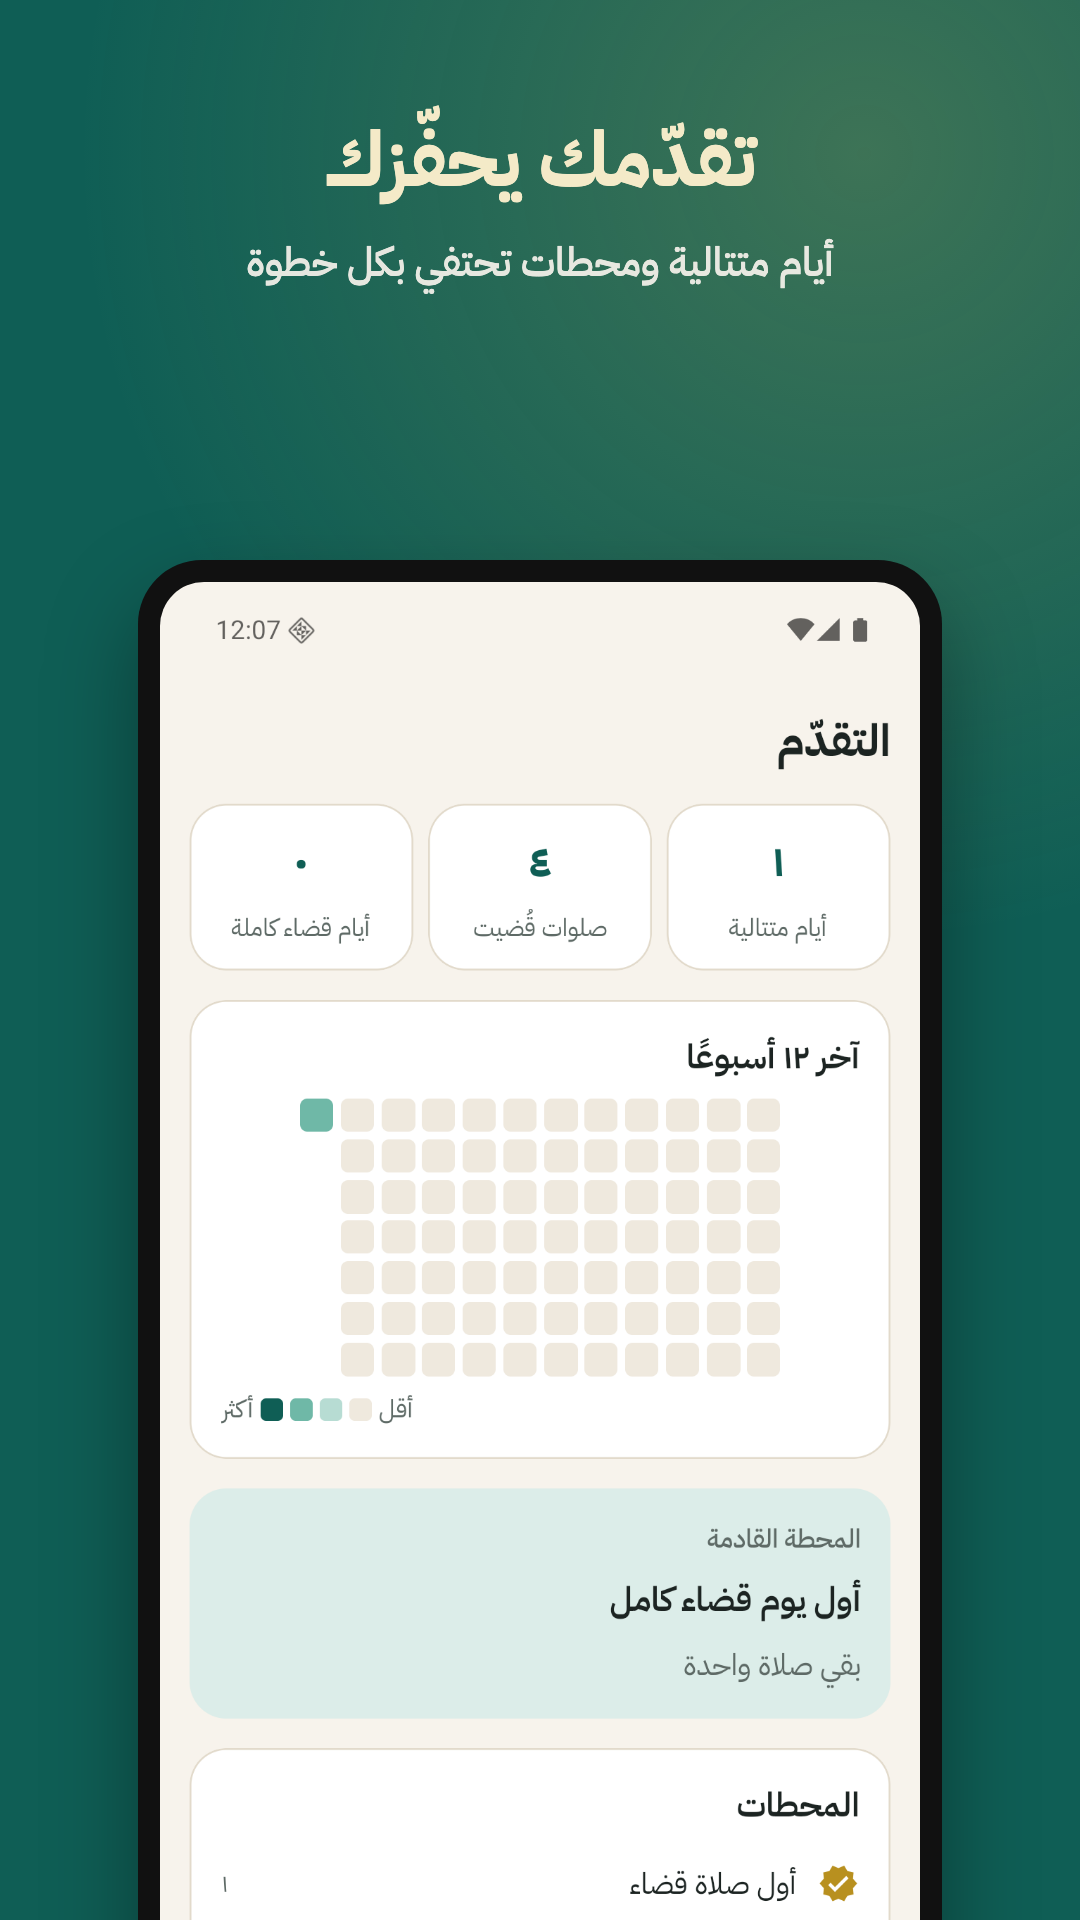
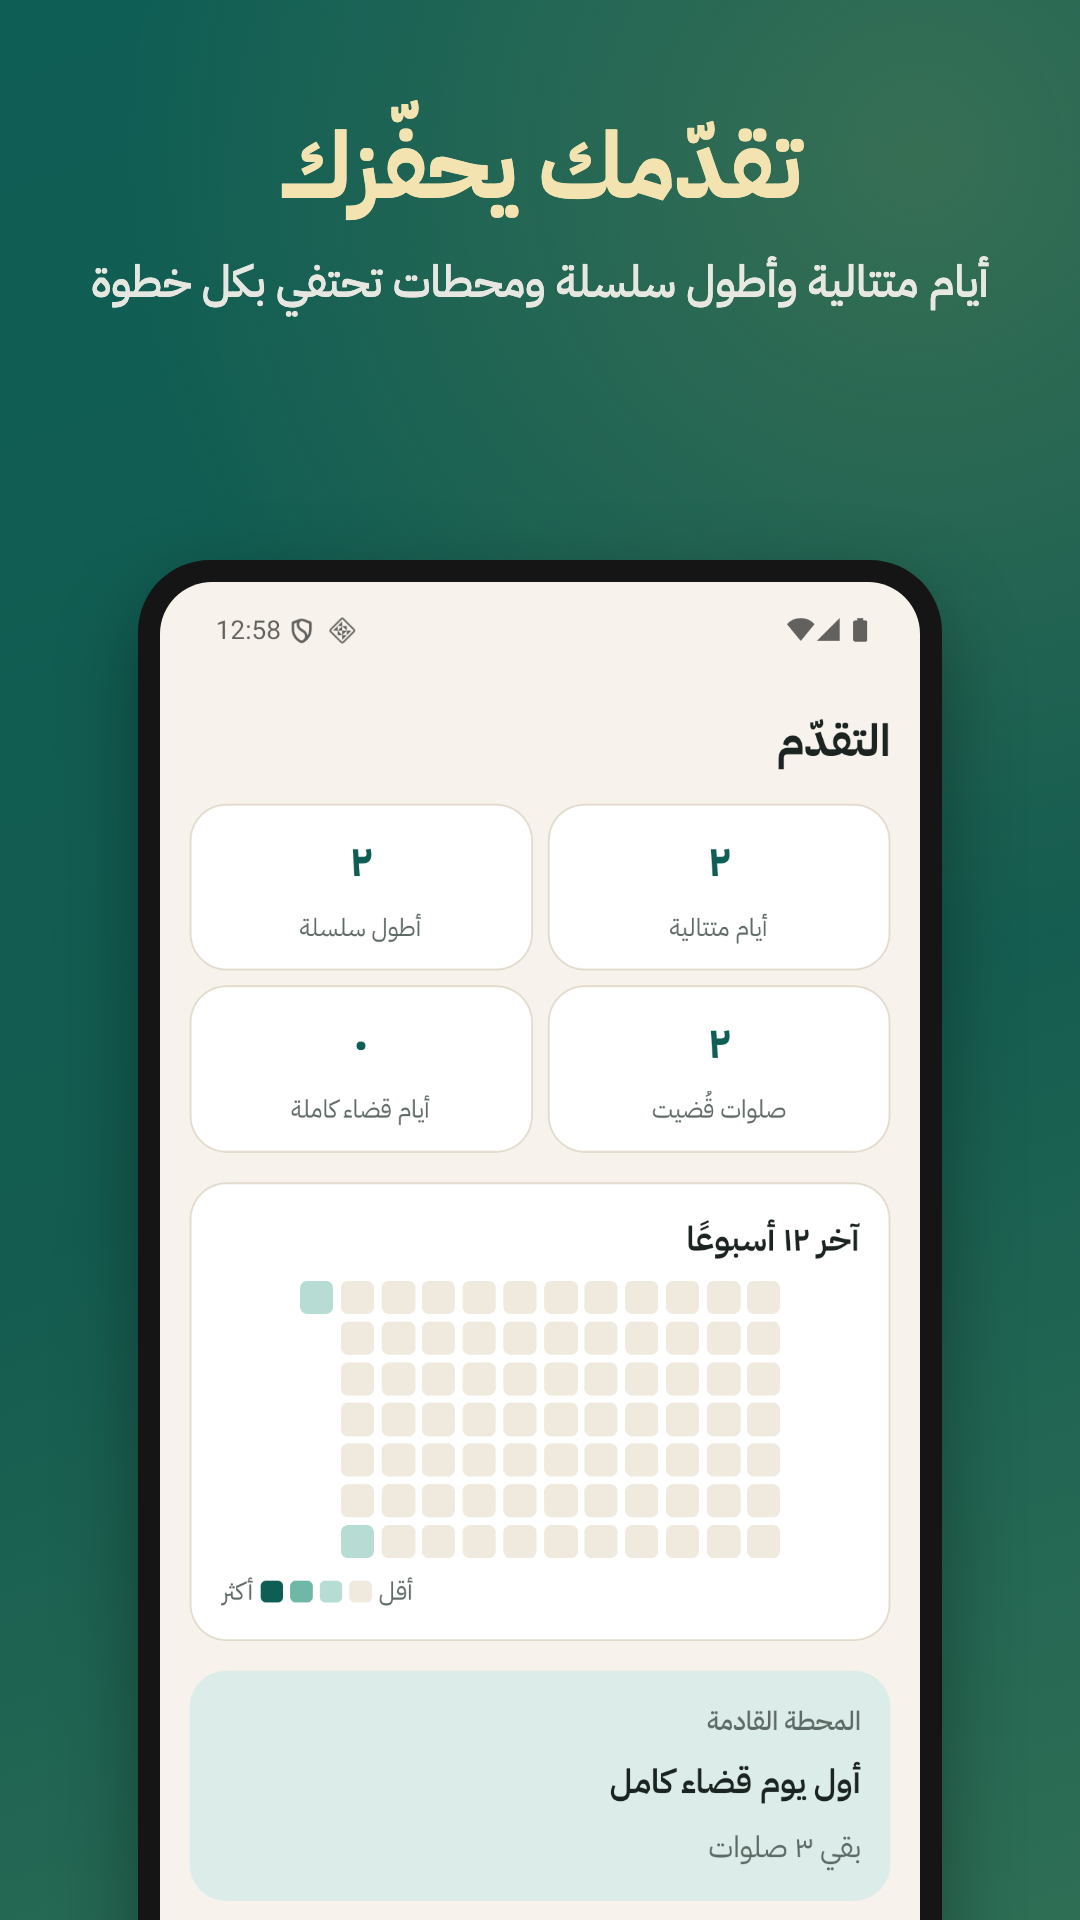
docs(store): Progress screenshot with the best streak
Retaken on the emulator after the 2x2 stat layout. Adds
design/screenshot-frame.html, the template the framed store
screenshots are rendered from (headless Chrome, 1080x1920).

diff --git a/design/screenshot-frame.html b/design/screenshot-frame.html
@@ -1,0 +1,22 @@
+<!doctype html><html dir="rtl"><head><meta charset="utf-8"><style>
+/* Store screenshot frame: 1080x1920, headline + phone. Render with headless Chrome; set the
+   query string ?img=<data-uri or path>&h=<headline>&s=<subtitle>. */
+@font-face{font-family:Plex;src:url('../node_modules/@expo-google-fonts/ibm-plex-sans-arabic/700Bold/IBMPlexSansArabic_700Bold.ttf');font-weight:700}
+@font-face{font-family:Plex;src:url('../node_modules/@expo-google-fonts/ibm-plex-sans-arabic/500Medium/IBMPlexSansArabic_500Medium.ttf');font-weight:500}
+html,body{margin:0;width:1080px;height:1920px;overflow:hidden}
+body{font-family:Plex;color:#F7F3EC;text-align:center;
+background:linear-gradient(160deg,#0F5E55 0%,#145C50 55%,#2E6E55 100%);
+background-image:radial-gradient(circle at 85% 8%,rgba(224,190,90,.18),transparent 40%),linear-gradient(160deg,#0F5E55 0%,#145C50 55%,#2E6E55 100%)}
+h1{font-size:92px;margin:110px 0 0;color:#F3E3B0;line-height:1.25}
+p{font-size:44px;margin:24px 60px 0;font-weight:500;line-height:1.5;opacity:.92}
+.phone{position:absolute;left:138px;top:560px;width:804px;border-radius:72px;background:#151515;padding:22px;box-sizing:border-box;box-shadow:0 30px 80px rgba(0,0,0,.35)}
+.phone img{display:block;width:100%;border-radius:52px}
+</style></head><body>
+<h1 id="h"></h1><p id="s"></p>
+<div class="phone"><img id="i"></div>
+<script>
+const q=new URLSearchParams(location.search);
+document.getElementById('h').textContent=q.get('h');
+document.getElementById('s').textContent=q.get('s');
+document.getElementById('i').src=q.get('img');
+</script></body></html>
